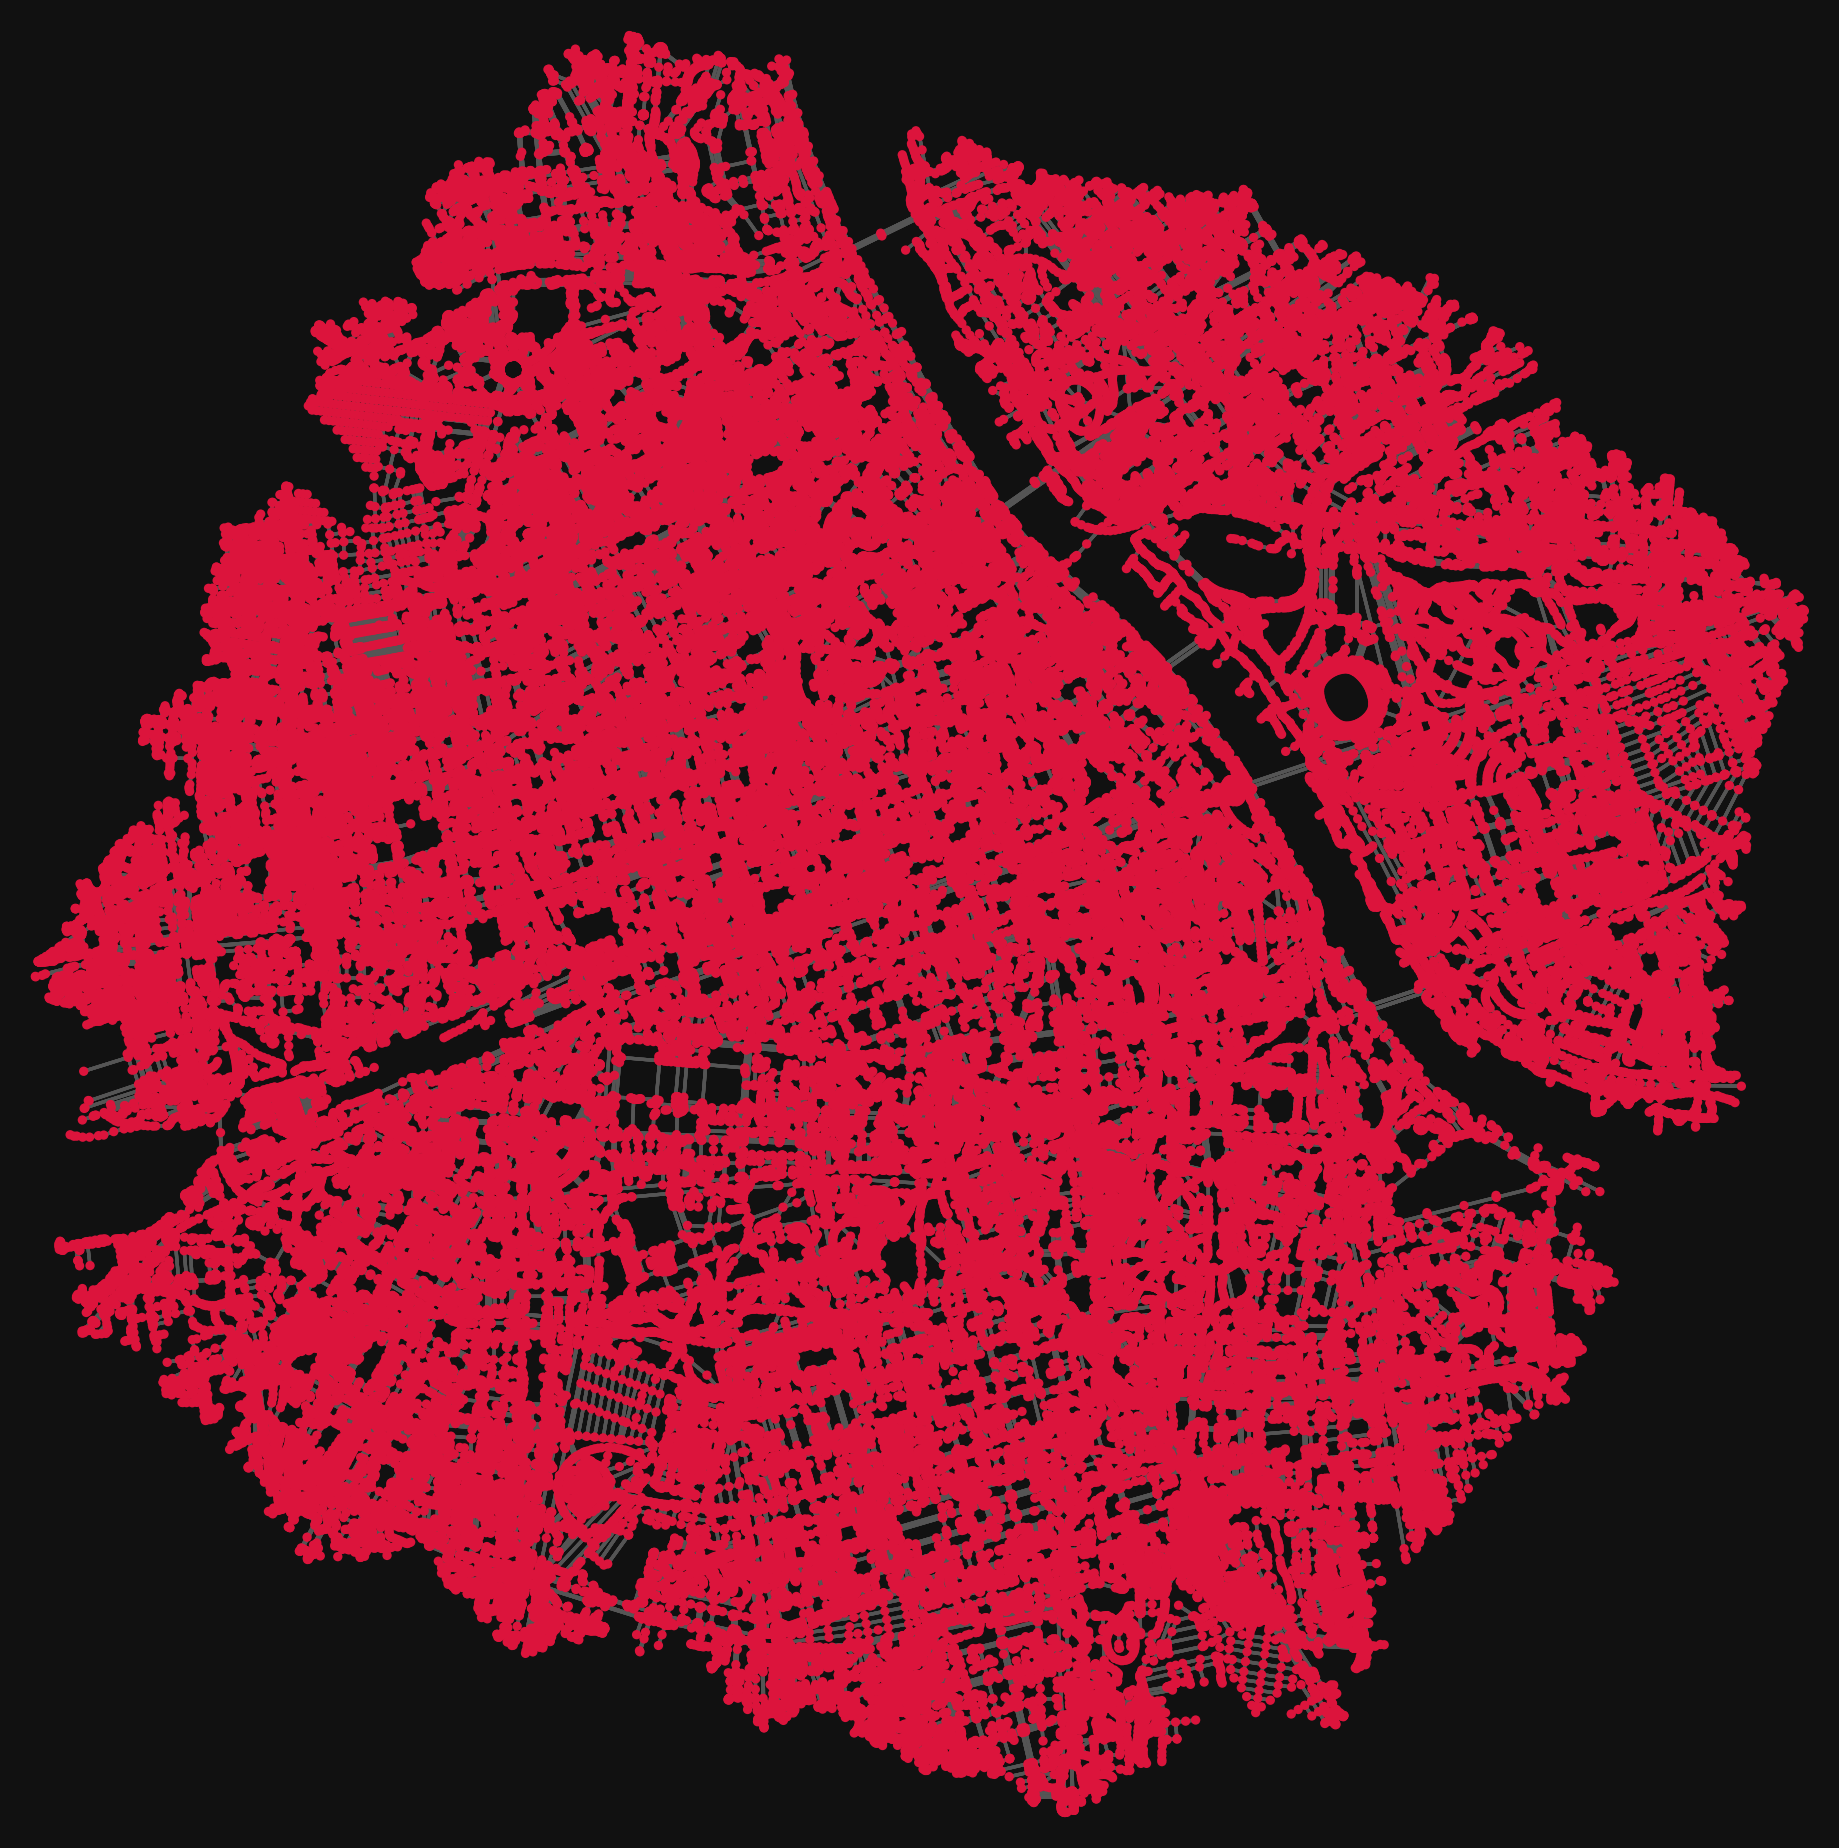
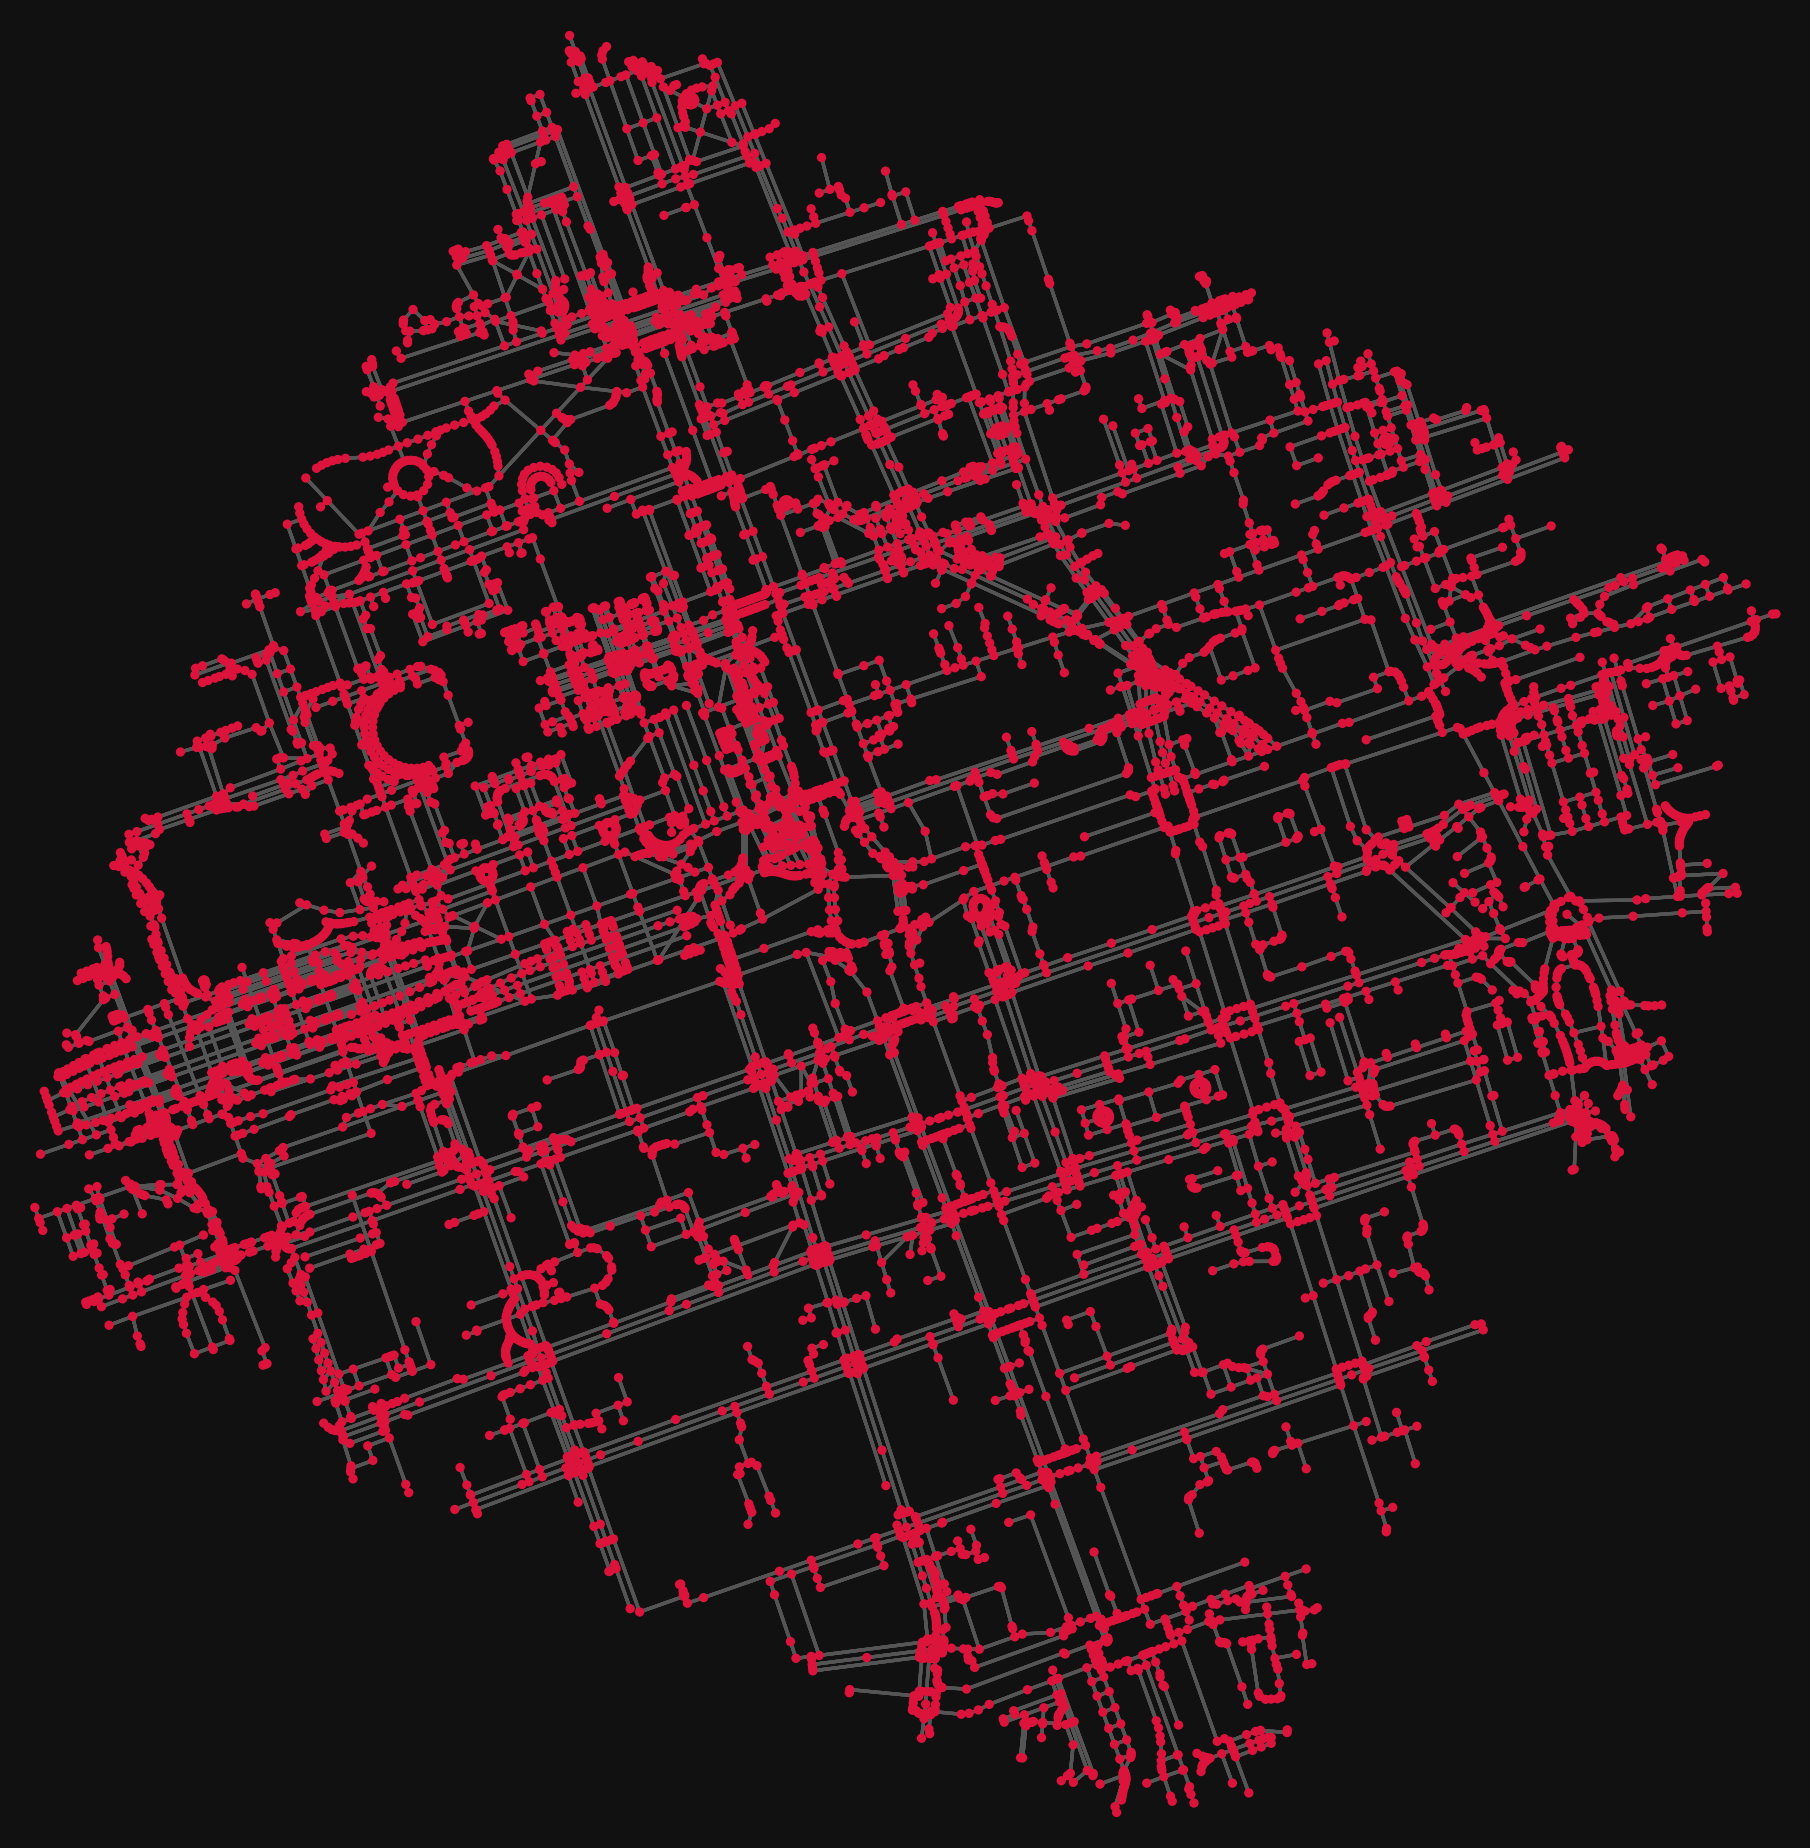
kind of working graph simpifying

diff --git a/backend/test/docker_scenarios/test_simplify_graph.py b/backend/test/docker_scenarios/test_simplify_graph.py
@@ -1,0 +1,111 @@
+import os
+import networkx as nx
+import osmnx as ox
+from scipy.spatial import cKDTree
+import numpy as np
+
+from src.database.geo_point import GeoPoint
+from src.generate_routes.graph_builder.graph_builder import GraphBuilder
+from src.generate_routes.graph_builder.tile_loader import TileLoader
+
+ox.settings.use_cache = False
+
+
+def collapse_multilane_intersections(G: nx.MultiDiGraph, tolerance_meters: float = 15.0) -> nx.MultiDiGraph:
+    """
+    Scala węzły dróg wielopasmowych i złożonych skrzyżowań leżące bliżej niż `tolerance_meters`.
+    Nie używa zabugowanego rebuild_graph z OSMnx.
+    """
+    # 1. Rzutowanie grafu na układ metryczny UTM
+    g_proj = ox.project_graph(G)
+
+    nodes = list(g_proj.nodes(data=True))
+    node_ids = [n[0] for n in nodes]
+    coords = np.array([[n[1]["x"], n[1]["y"]] for n in nodes])
+
+    # 2. Budowa drzewa KD do szybkiego wyszukiwania sąsiadów w promieniu tolerance_meters
+    tree = cKDTree(coords)
+    clusters = tree.query_ball_tree(tree, r=tolerance_meters)
+
+    # 3. Wyznaczenie mapowania stary_node -> reprezentant_klastra
+    visited = set()
+    node_mapping = {}
+
+    for idx, cluster in enumerate(clusters):
+        if idx in visited:
+            continue
+        # Reprezentantem staje się pierwszy napotkany węzeł w grupie
+        rep_id = node_ids[idx]
+        for member_idx in cluster:
+            if member_idx not in visited:
+                visited.add(member_idx)
+                node_mapping[node_ids[member_idx]] = rep_id
+
+    # 4. Budowa nowego, uproszczonego grafu
+    g_collapsed = nx.MultiDiGraph()
+    g_collapsed.graph = g_proj.graph.copy()
+
+    # Przepisanie węzłów-reprezentantów
+    for n, data in g_proj.nodes(data=True):
+        if n in node_mapping and node_mapping[n] == n:
+            g_collapsed.add_node(n, **data)
+
+    # Przepisanie krawędzi z uwzględnieniem scalonych punktów
+    for u, v, k, data in g_proj.edges(keys=True, data=True):
+        new_u = node_mapping.get(u, u)
+        new_v = node_mapping.get(v, v)
+
+        # Ignorujemy pętle własne (krawędzie wewnątrz tego samego skrzyżowania/pasa)
+        if new_u != new_v:
+            # Sprawdzamy czy taka krawędź już istnieje, aby nie powielać równoległych pasów
+            if not g_collapsed.has_edge(new_u, new_v):
+                g_collapsed.add_edge(new_u, new_v, **data)
+
+    # 5. Usunięcie odizolowanych punktów
+    g_collapsed.remove_nodes_from(list(nx.isolates(g_collapsed)))
+
+    # 6. Powrót do WGS84
+    return ox.project_graph(g_collapsed, to_crs="epsg:4326")
+
+
+def main():
+    center = GeoPoint(latitude=52.2297, longitude=21.0122)
+    radius_meters = 1000.0
+
+    print(f"Szukam kafelków w: {os.path.abspath(TileLoader.TILES_DIR)}")
+
+    # 1. Baza
+    g_base = GraphBuilder.build_graph(center, radius_meters)
+    if not g_base or len(g_base.nodes) == 0:
+        print("[BŁĄD] Nie udało się zbudować grafu.")
+        return
+
+    print(f"\n[1] Baza (surowy): {len(g_base.nodes)} węzłów, {len(g_base.edges)} krawędzi")
+
+    # 2. Redukcja wielopasmowości (promień scalania 15 metrów)
+    g_reduced = collapse_multilane_intersections(g_base, tolerance_meters=15.0)
+    print(f"[2] Po redukcji wielopasmowości (15m): {len(g_reduced.nodes)} węzłów, {len(g_reduced.edges)} krawędzi")
+
+    # 3. Zmiękczenie topologiczne OSMnx po zredukowaniu pasów
+    g_reduced.graph["simplified"] = False
+    g_final = ox.simplify_graph(g_reduced)
+    print(f"[3] Po końcowym simplify_graph: {len(g_final.nodes)} węzłów, {len(g_final.edges)} krawędzi")
+
+    # Zapis obrazu
+    output_png = "collapsed_multilane_map.png"
+    ox.plot_graph(
+        g_final,
+        node_size=10,
+        node_color="crimson",
+        edge_color="#444444",
+        edge_linewidth=1.0,
+        filepath=output_png,
+        save=True,
+        show=False,
+        close=True,
+    )
+    print(f"\n[SUKCES] Zapisano podgląd do: {os.path.abspath(output_png)}")
+
+
+if __name__ == "__main__":
+    main()

diff --git a/backend/src/generate_routes/graph_builder/graph_builder.py b/backend/src/generate_routes/graph_builder/graph_builder.py
@@ -10,6 +10,11 @@ from src.generate_routes.graph_builder.tile_resolver import TileResolver
 class GraphBuilder:
     @classmethod
     def build_graph(cls, center: GeoPoint, radius: float) -> Map:
+        # 10% margin with radius
+        RADIUS_MULT = 1.1
+
+        radius = radius * RADIUS_MULT
+
         tile_pointers = TileResolver.resolve_tiles(center, radius)
         tiles = TileLoader.get_tiles(tile_pointers)
 
@@ -23,9 +28,7 @@ class GraphBuilder:
         else:
             map.graph["crs"] = "epsg:4326"
 
-        return ox.truncate.truncate_graph_dist(
-            map, cls._calc_closest_node_id(map, center), radius
-        )
+        return ox.truncate.truncate_graph_dist(map, cls._calc_closest_node_id(map, center), radius)
 
     @staticmethod
     def _calc_closest_node_id(map: Map, center: GeoPoint) -> int:

diff --git a/backend/test/docker_scenarios/test_map_build.py b/backend/test/docker_scenarios/test_map_build.py
@@ -10,7 +10,7 @@ ox.settings.use_cache = False
 
 def main():
     center = GeoPoint(latitude=52.2297, longitude=21.0122)
-    radius_meters = 5000.0
+    radius_meters = 1000.0
 
     print(f"Szukam kafelków w katalogu: {os.path.abspath(TileLoader.TILES_DIR)}")
     print(f"Budowanie grafu dla punktu ({center.latitude}, {center.longitude}) o promieniu {radius_meters}m...")
